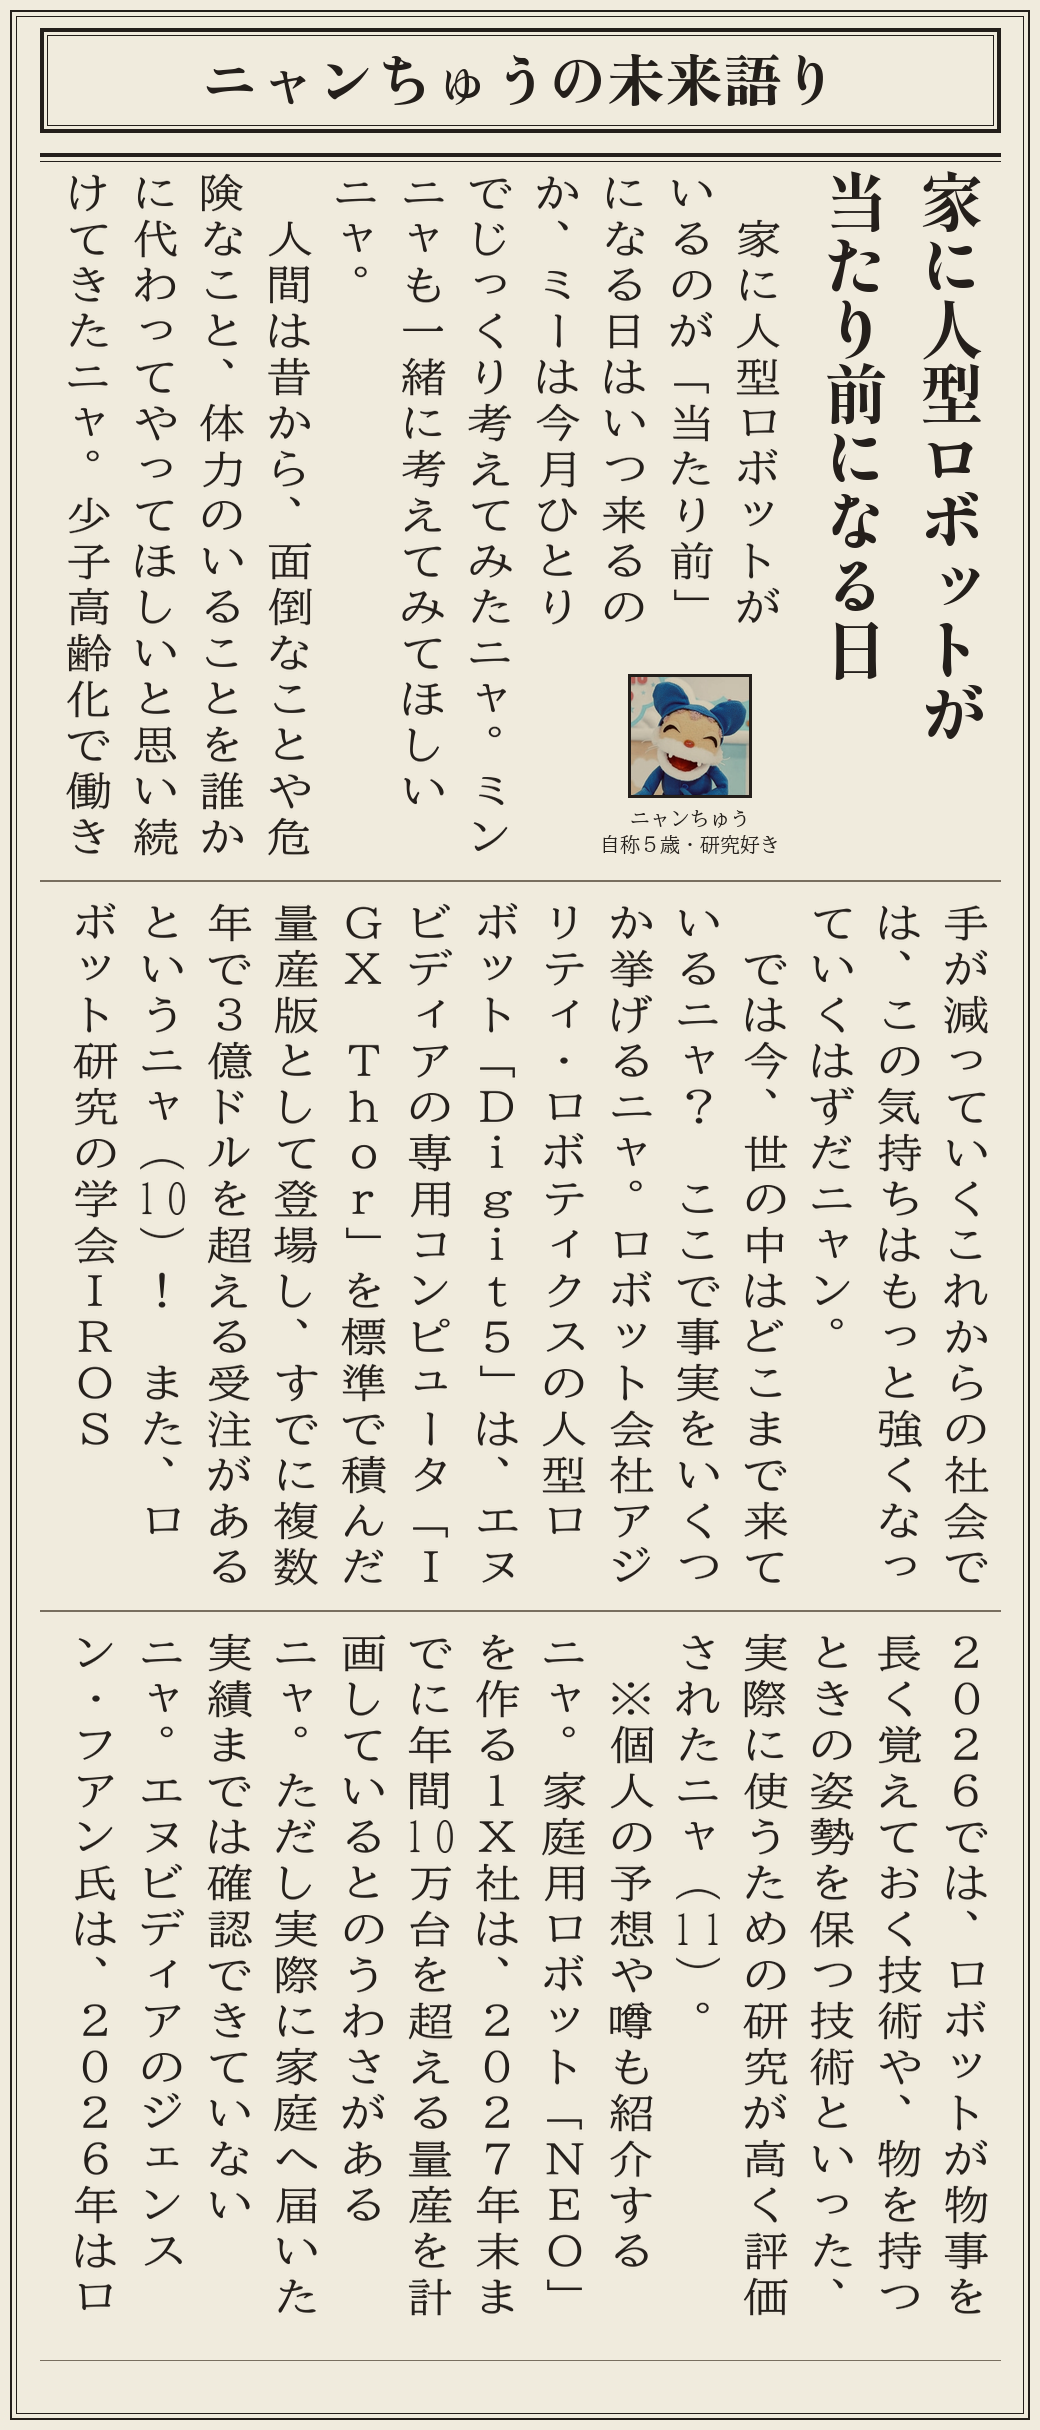
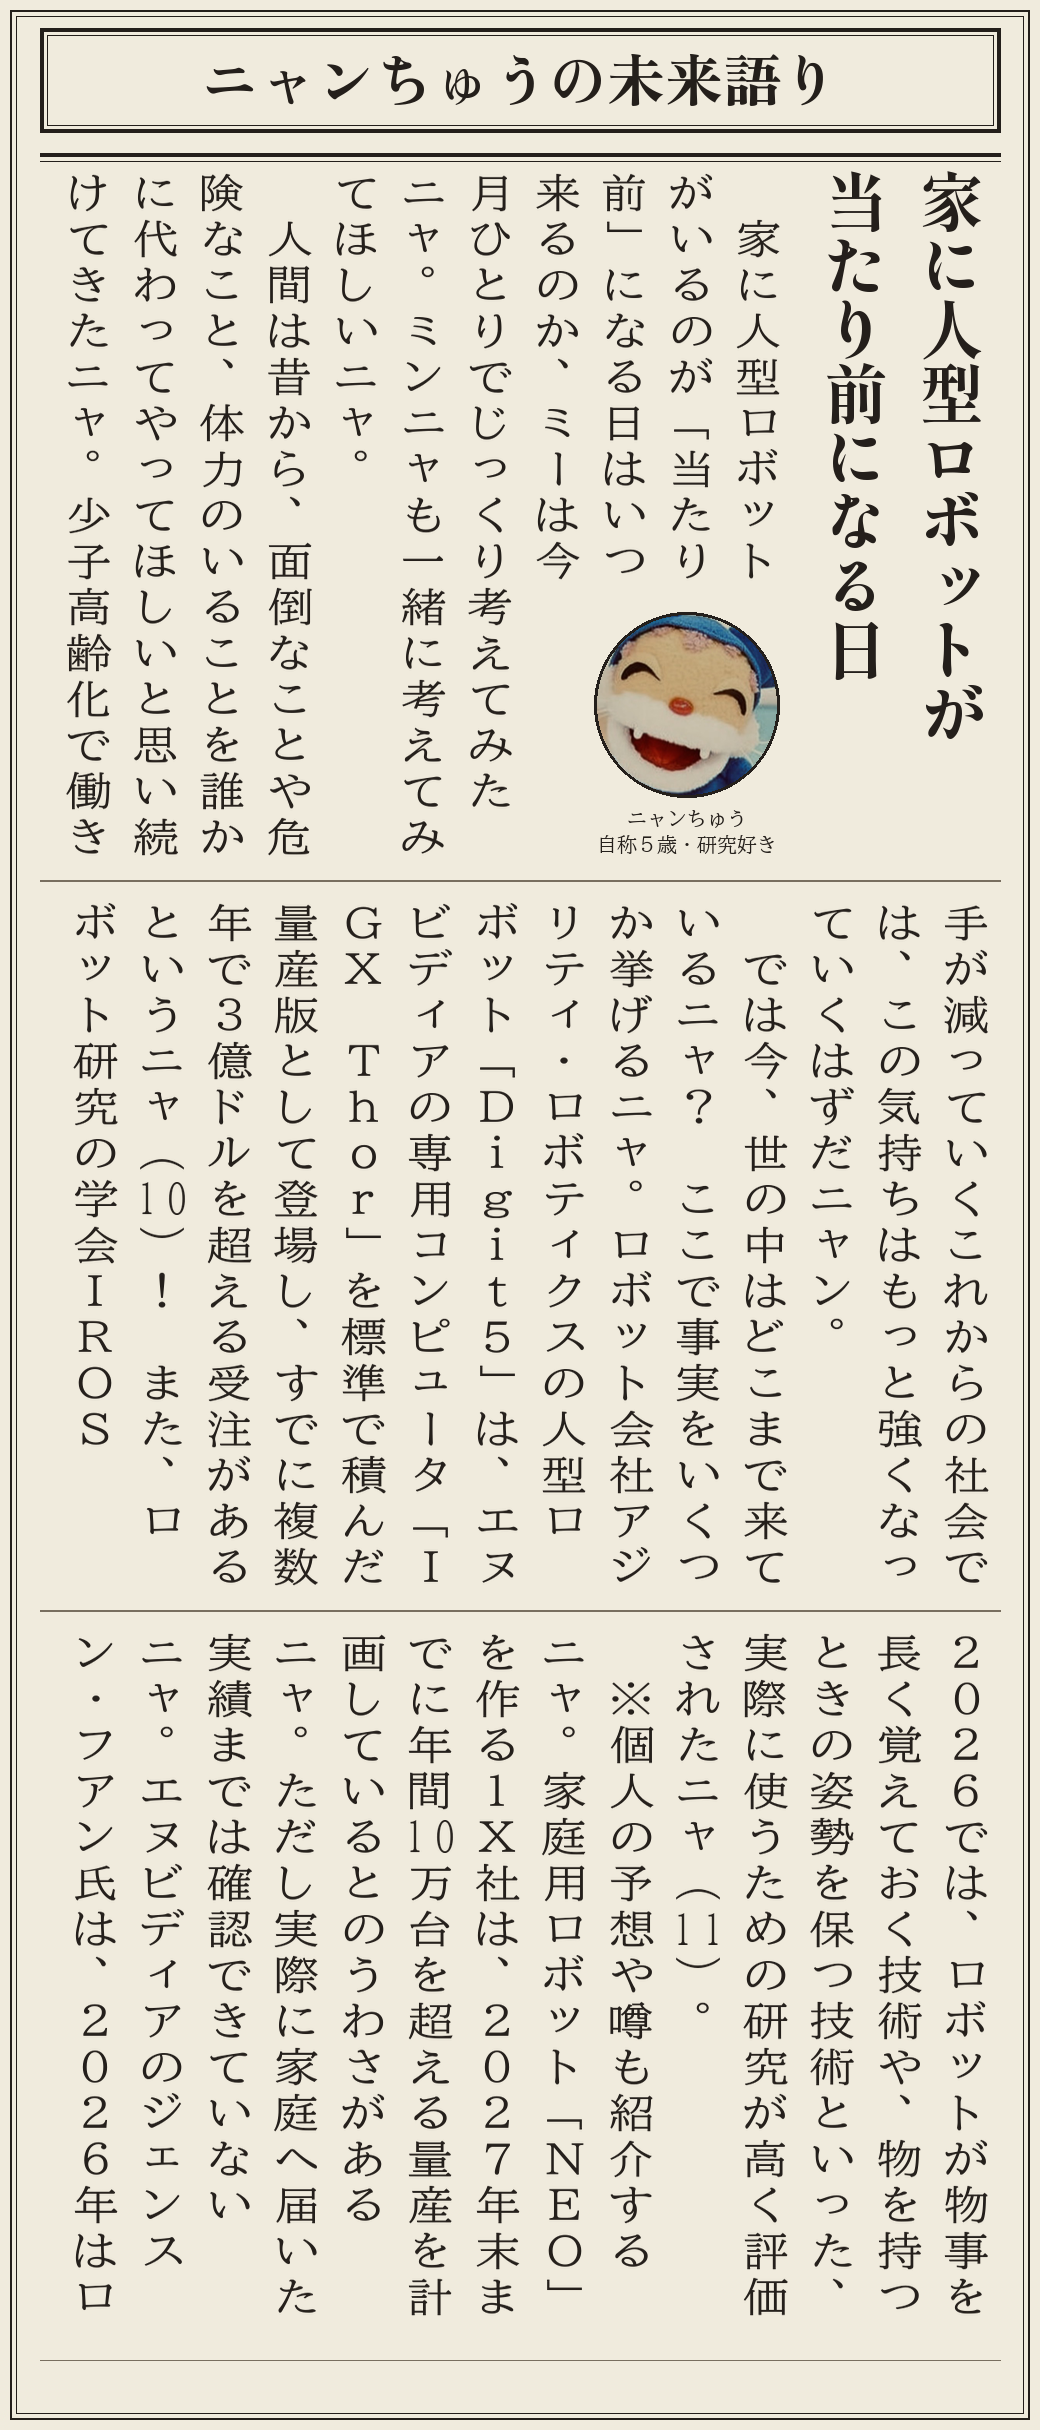
Make the headline photo circular, larger, and face-centered
- Crop to a round mask instead of a square, filling the area outside the
  circle with the paper background color and adding a thin ring border
  matching the old square frame's color and width.
- Enlarge the photo diameter to 1.5x the old square side (124 -> 186px).
- Add a --photo-crop option so the source photo can be cropped around the
  face before the circular mask is applied; default it to a face-centered
  crop for S__91226114.jpg.
- The existing text-flow, overlap, and kinsoku checks already adapt to the
  new photo size (overlap check treats the circle's bounding square as its
  rect), so no separate layout code was needed there.

Claude-Session: https://claude.ai/code/session_017Wi1wc9V3UgVrF6sGsYY3u

diff --git a/tools/render_column.py b/tools/render_column.py
@@ -23,6 +23,12 @@
 小さい仮名や読点の右上寄せは libraqm のvertical shapingに任せている。
 半角英数字は全角に変換して描画する。
 
+写真の切り抜き:
+    --photo-crop "x,y,w,h" で元写真から顔を中心に切り抜く範囲(左上座標と幅・高さ、
+    元画像のピクセル単位、正方形を推奨)を指定できる。指定がなければ既定値
+    DEFAULT_PHOTO_CROP (S__91226114.jpg 用に選んだ値)を使う。切り抜いた範囲を
+    丸くトリミングして使う。
+
 見出しの列の区切り:
     --heading の中に全角スラッシュ「／」または改行を入れると、そこが列(縦書きの
     1列)の区切りになる(例: "家に人型ロボットが／当たり前になる日" は2列になる)。
@@ -47,8 +53,9 @@
     既定の本文書体は --font、見出し・題字の太い明朝は --head-font で切り替えられる
     (tools/fonts/ 以下に Google Fonts(OFL)から取得した同梱フォントを使用)。
     写真(顔写真)は見出しの横に、見出しのどの列とも重ならない専用の列を確保して
-    正方形で配置し、下に肩書きを添える(写真・肩書き・見出し・本文の境界箱が
-    互いに重ならないことをスクリプト側で検査する)。
+    丸く配置し(丸の外は紙と同じ色で塗り、細い丸枠を付ける)、下に肩書きを添える
+    (写真・肩書き・見出し・本文の境界箱が互いに重ならないことをスクリプト側で検査
+    する。写真は外接する正方形を境界箱として扱う)。
 """
 import argparse
 import os
@@ -97,12 +104,16 @@ HEADER_RULE_GAP = 22
 
 # --- 写真(見出しの横)まわりのレイアウト ------------------------------
 # 写真・肩書きは見出しの列とは別の専用の列に、見出しと横並びで配置する
-# (見出しのどの列とも x 方向に重ならない)。
-PHOTO_SIZE = 124
+# (見出しのどの列とも x 方向に重ならない)。写真は丸くトリミングし、丸の外は
+# 紙の色で塗って細い丸枠を付ける。
+PHOTO_SIZE = 186              # 丸の直径(旧・正方形の一辺124pxの約1.5倍)
 PHOTO_BORDER = 3
 PHOTO_COL_GAP = 16            # 見出しの最後の列と写真の専用列の間の余白
 PHOTO_CAPTION_GAP = 10
 PHOTO_CAPTION_SIZE = 20
+# S__91226114.jpg から顔を中心に切り抜く既定範囲 (x, y, w, h)。
+# 顔が丸の中央〜やや上に来て、顔が丸の大部分を占めるように選んだ値。
+DEFAULT_PHOTO_CROP = (145, 174, 480, 480)
 PHOTO_CAPTION_LINE_H = 26
 
 SIG_CELL = 28                 # 本文末尾の署名の文字サイズ(本文より小さい)
@@ -398,18 +409,28 @@ def split_heading(raw_heading: str, cap: int):
     return cols
 
 
-def square_photo(path: str, size: int) -> Image.Image:
-    """新聞の顔写真風に、正方形トリミング+細い一本罫線で縁取る。"""
+def circular_photo(path: str, diameter: int, crop_box=None) -> Image.Image:
+    """顔写真風に、顔を中心にした正方形トリミング+丸型マスク+細い丸枠で縁取る。
+    丸の外側は紙と同じ色(PAPER)で塗り、透明にはしない。
+    crop_box は元画像のピクセル座標 (x, y, w, h)。省略時は中央の正方形を使う。"""
     im = Image.open(path).convert("RGB")
-    side = min(im.size)
-    left = (im.width - side) // 2
-    top = (im.height - side) // 2
-    im = im.crop((left, top, left + side, top + side)).resize((size, size), Image.LANCZOS)
-    out = Image.new("RGBA", (size, size), (0, 0, 0, 255))
-    out.paste(im, (0, 0))
+    if crop_box is not None:
+        x, y, w, h = crop_box
+        im = im.crop((x, y, x + w, y + h))
+    else:
+        side = min(im.size)
+        left = (im.width - side) // 2
+        top = (im.height - side) // 2
+        im = im.crop((left, top, left + side, top + side))
+    im = im.resize((diameter, diameter), Image.LANCZOS)
+
+    out = Image.new("RGBA", (diameter, diameter), PAPER + (255,))
+    mask = Image.new("L", (diameter, diameter), 0)
+    ImageDraw.Draw(mask).ellipse((0, 0, diameter - 1, diameter - 1), fill=255)
+    out.paste(im, (0, 0), mask)
     d = ImageDraw.Draw(out)
-    d.rectangle((0, 0, size - 1, size - 1), outline=INK, width=PHOTO_BORDER)
-    return out.convert("RGB").convert("RGBA")
+    d.ellipse((0, 0, diameter - 1, diameter - 1), outline=INK, width=PHOTO_BORDER)
+    return out
 
 
 def draw_double_rule(draw: ImageDraw.ImageDraw, x0: int, x1: int, y: int,
@@ -549,8 +570,9 @@ def _place_photo_and_caption(page: Page, photo_img, byline: str, body_font_path:
 
 
 def render(paragraphs, raw_heading, title, photo_path, byline, date_text, signature,
-           body_font_path, head_font_path, title_font_path, flatten, out_prefix):
-    photo_img = square_photo(photo_path, PHOTO_SIZE) if photo_path else None
+           body_font_path, head_font_path, title_font_path, flatten, out_prefix,
+           photo_crop=None):
+    photo_img = circular_photo(photo_path, PHOTO_SIZE, photo_crop) if photo_path else None
 
     pages = []
     page_no = 1
@@ -743,7 +765,10 @@ def main():
                      help="見出し(問い)。全角スラッシュ「／」や改行で列の区切り位置を指定できる"
                           "(指定がなければ助詞の直後などで自動的に区切る)")
     ap.add_argument("--title", default="ニャンちゅうの未来語り", help="題字")
-    ap.add_argument("--photo", default=None, help="顔写真(正方形に中央トリミングして見出し横の専用列に使用)")
+    ap.add_argument("--photo", default=None, help="顔写真(顔を中心に正方形トリミングして丸く見出し横の専用列に使用)")
+    ap.add_argument("--photo-crop", default=None,
+                     help="元写真から顔を中心に切り抜く範囲 \"x,y,w,h\"(省略時は中央の正方形。"
+                          "S__91226114.jpg の場合は顔を中心にした既定値 DEFAULT_PHOTO_CROP を使う)")
     ap.add_argument("--byline", default="ニャンちゅう\n自称5歳・研究好き", help="写真下の肩書き(\\nで改行)")
     ap.add_argument("--signature", default="ニャンちゅう・自称5歳の研究好き",
                      help="本文末尾に入れる署名(括弧は自動で付く)")
@@ -760,13 +785,19 @@ def main():
     byline = fullwidth(args.byline)
     date_text = fullwidth(args.date)
 
+    if args.photo_crop is not None:
+        photo_crop = tuple(int(v) for v in args.photo_crop.split(","))
+        assert len(photo_crop) == 4, "--photo-crop は \"x,y,w,h\" の4つの数値で指定するニャ"
+    else:
+        photo_crop = DEFAULT_PHOTO_CROP
+
     out_dir = os.path.dirname(args.out)
     if out_dir:
         os.makedirs(out_dir, exist_ok=True)
 
     paths, drawn, expected = render(paragraphs, args.heading, args.title, args.photo, byline, date_text,
                                      args.signature, args.font, args.head_font, args.title_font,
-                                     args.flatten, args.out)
+                                     args.flatten, args.out, photo_crop=photo_crop)
     verify_images(paths)
     print(f"配置した文字数: {drawn} / 本文の文字数: {expected} -> OK")
     for p in paths:
